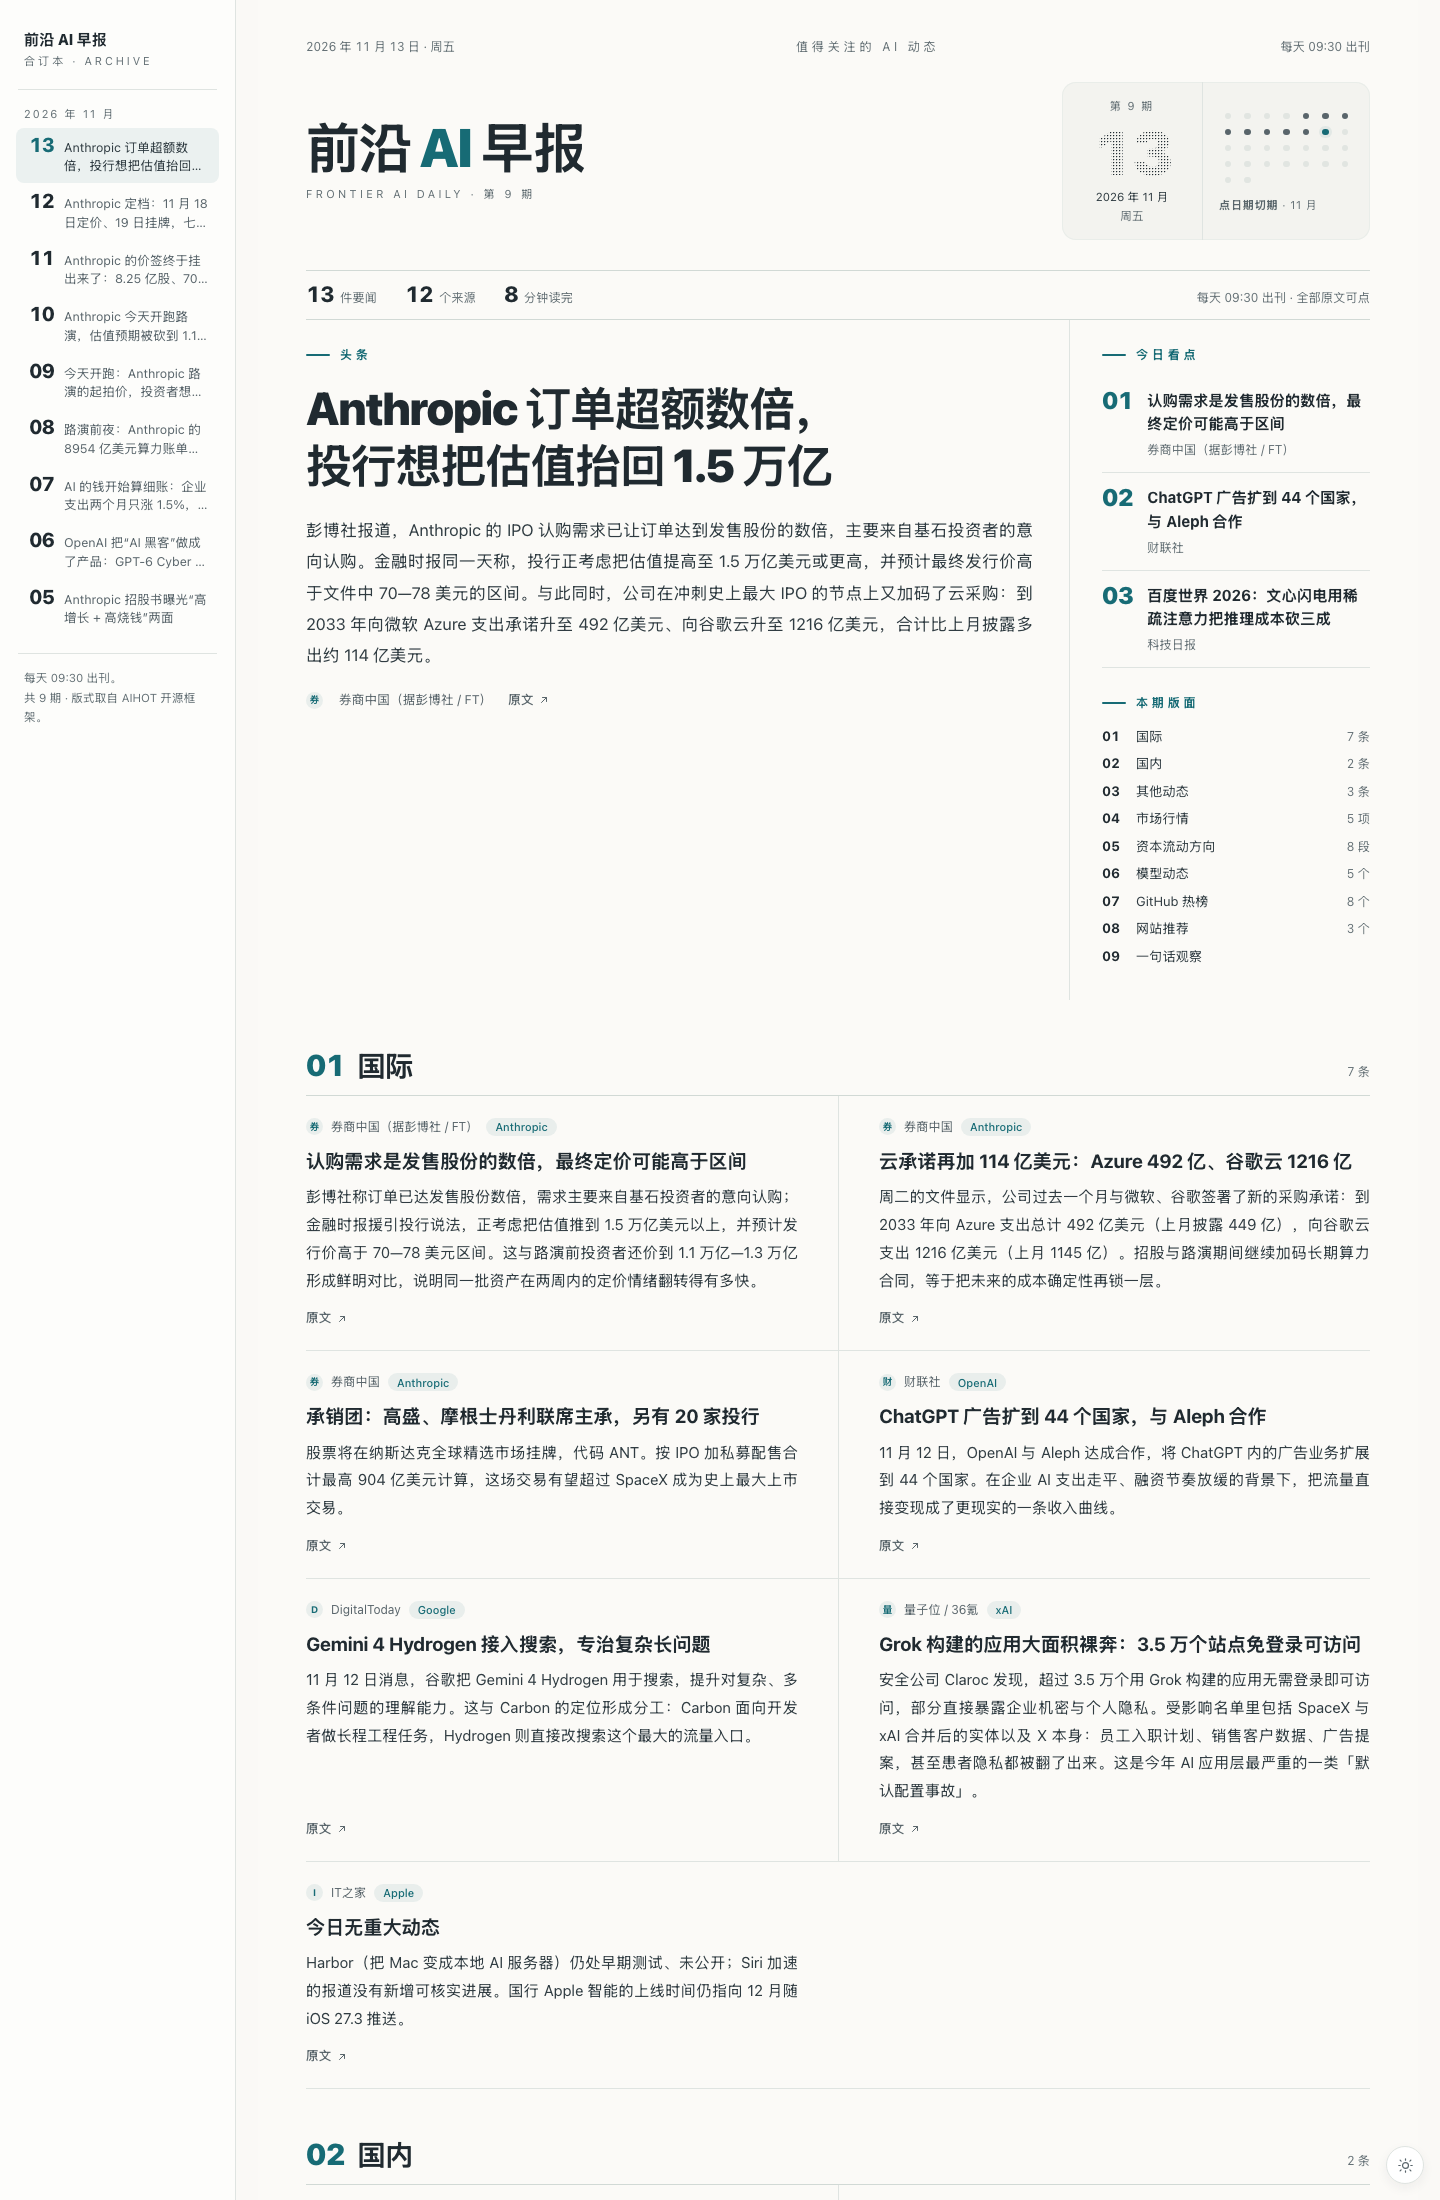
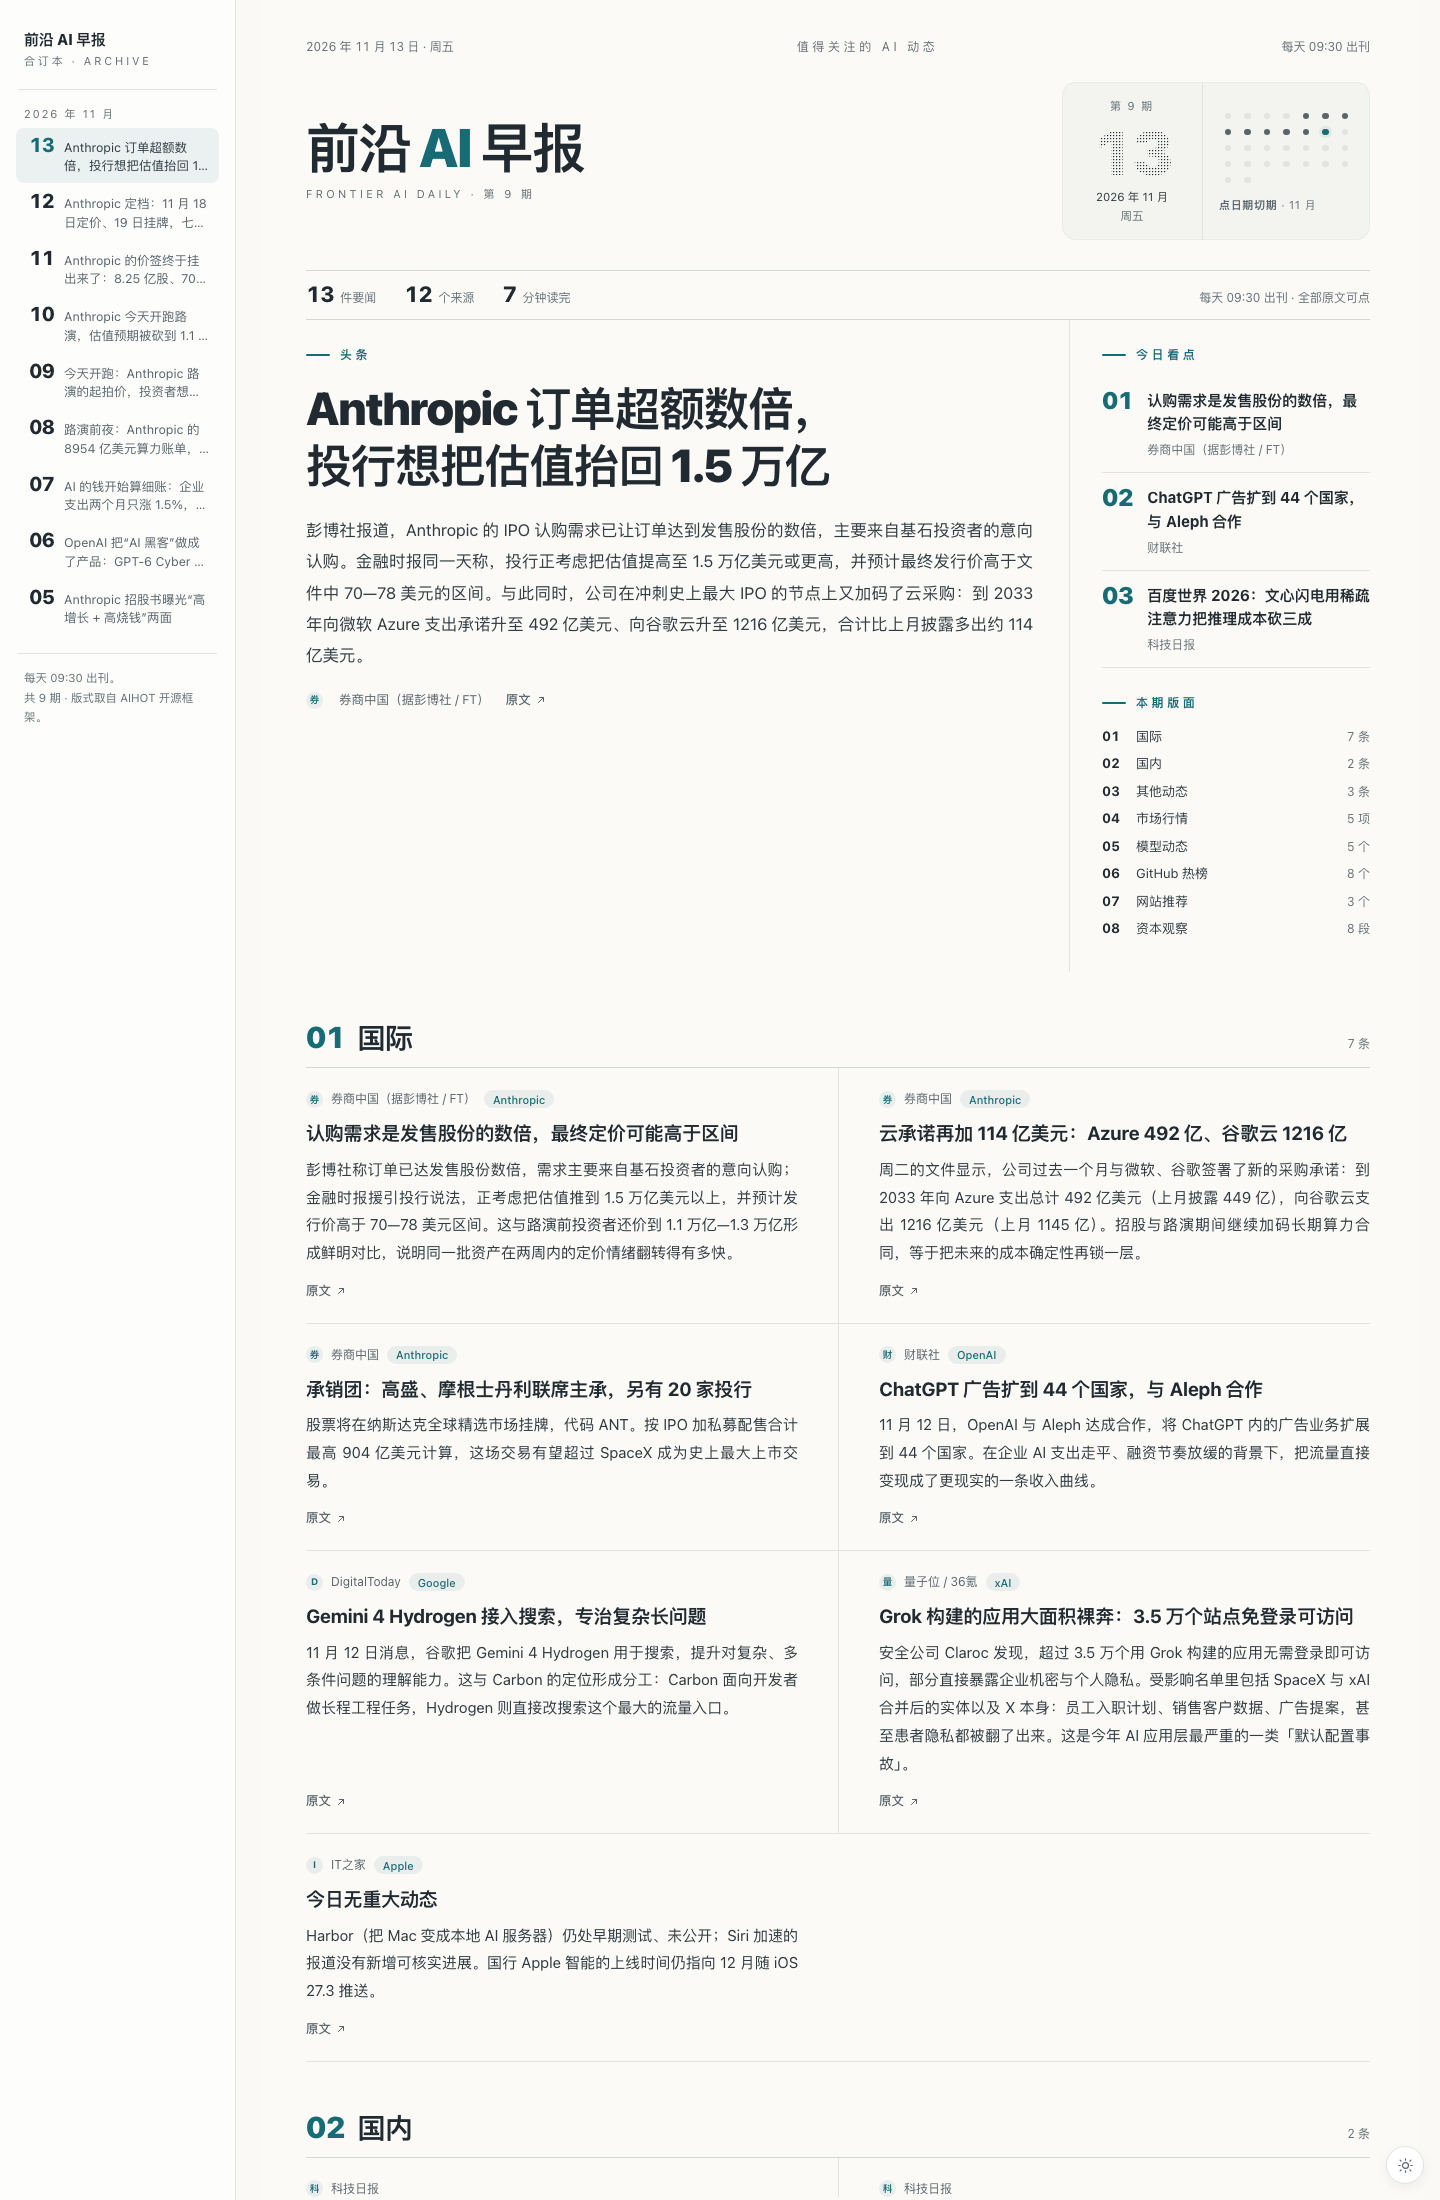
feat: 资本流动方向改为压轴「资本观察」，移除一句话观察

diff --git a/scripts/render.py b/scripts/render.py
@@ -186,7 +186,6 @@ def reading_minutes(data: dict) -> int:
     chars = sum(len(str(i.get("text") or "")) + len(str(i.get("title") or "")) for i in collect_items(data))
     cap = data.get("capital") or {}
     chars += sum(len(str(p)) for p in cap.get("paragraphs") or [])
-    chars += len(str(data.get("takeaway") or ""))
     chars += sum(len(str(r.get("text") or "")) for r in (data.get("models") or {}).get("rows") or [])
     return max(3, round(chars / 450))
 
@@ -362,29 +361,6 @@ def build_page(data: dict, issues: list[dict], site: str, motto: str, edition: s
         )
         sections.append(section(no, sid, "市场行情", f"{len(market['rows'])} 项", body))
 
-    capital = data.get("capital") or {}
-    if capital.get("paragraphs"):
-        no += 1
-        sid = f"s-{no}"
-        index_entries.append((sid, "资本流动方向", f"{len(capital['paragraphs'])} 段"))
-        ps = "".join(f"<p>{esc(p)}</p>" for p in capital["paragraphs"])
-        flows = capital.get("flows") or []
-        flows_html = ""
-        if flows:
-            lis = "".join(
-                f'<li><span class="flow-label">{esc(f.get("label"))}</span>'
-                f'<span class="flow-text">{esc(f.get("text"))}</span></li>'
-                for f in flows
-            )
-            flows_html = f'<ul class="flows">{lis}</ul>'
-        cap_title = str(capital.get("title") or "")
-        note_bits = [esc(cap_title)] if cap_title else []
-        if capital.get("as_of"):
-            note_bits.append(esc(capital["as_of"]))
-        note = '<span class="accent">本版导读</span>' + " · ".join(note_bits) if note_bits else None
-        body = f'<div class="prose" style="padding:22px 0 0">{ps}{flows_html}</div>'
-        sections.append(section(no, sid, "资本流动方向", "综述", body, note=note))
-
     models = data.get("models") or {}
     if models.get("rows"):
         no += 1
@@ -458,17 +434,29 @@ def build_page(data: dict, issues: list[dict], site: str, motto: str, edition: s
         note = esc(sites.get("as_of")) if sites.get("as_of") else None
         sections.append(section(no, sid, "网站推荐", f"{len(sites['rows'])} 个", body, note=note))
 
-    takeaway = str(data.get("takeaway") or "").strip()
-    if takeaway:
-        index_entries.append(("s-takeaway", "一句话观察", ""))
-        sections.append(
-            '<section class="page" id="s-takeaway" aria-labelledby="s-takeaway-t">'
-            '<header class="page-head"><span class="page-no">末</span>'
-            '<h2 id="s-takeaway-t">一句话观察</h2><span class="page-count">趋势判断</span></header>'
-            f'<div class="closing"><div class="kicker">观察</div>'
-            f"<blockquote>{esc(takeaway)}</blockquote>"
-            f"<cite>—— {esc(site)} · 第 {issue_no} 期</cite></div></section>"
-        )
+    # 资本观察放在最后一版（原「一句话观察」的位置）
+    capital = data.get("capital") or {}
+    if capital.get("paragraphs"):
+        no += 1
+        sid = f"s-{no}"
+        index_entries.append((sid, "资本观察", f"{len(capital['paragraphs'])} 段"))
+        ps = "".join(f"<p>{esc(p)}</p>" for p in capital["paragraphs"])
+        flows = capital.get("flows") or []
+        flows_html = ""
+        if flows:
+            lis = "".join(
+                f'<li><span class="flow-label">{esc(f.get("label"))}</span>'
+                f'<span class="flow-text">{esc(f.get("text"))}</span></li>'
+                for f in flows
+            )
+            flows_html = f'<ul class="flows">{lis}</ul>'
+        cap_title = str(capital.get("title") or "")
+        note_bits = [esc(cap_title)] if cap_title else []
+        if capital.get("as_of"):
+            note_bits.append(esc(capital["as_of"]))
+        note = '<span class="accent">本版导读</span>' + " · ".join(note_bits) if note_bits else None
+        body = f'<div class="prose" style="padding:22px 0 0">{ps}{flows_html}</div>'
+        sections.append(section(no, sid, "资本观察", "综述", body, note=note))
 
     # --- 头版
     hl_html = ""
@@ -654,7 +642,7 @@ def build_index(issues: list[dict], site: str, edition: str, css: str) -> str:
     </div>
   </div>
   <p class="archive-lead">每天一份：国际与国内大厂动态、其他要闻、BTC / ETH / SOL 与金银行情、
-  资本流向、模型版本、GitHub 热榜与网站推荐。点日期读当期，{latest}。</p>
+  资本观察、模型版本、GitHub 热榜与网站推荐。点日期读当期，{latest}。</p>
 </header>
 <div class="archive-years">
 {''.join(blocks)}

diff --git a/tests/test_render.py b/tests/test_render.py
@@ -54,6 +54,9 @@ class RenderTest(unittest.TestCase):
         self.assertIn("今日看点", report)
         self.assertIn("（本期完）", report)
         self.assertNotIn("None", report)
+        # 资本观察压轴，旧的「一句话观察」不再出现
+        self.assertGreater(report.index("资本观察"), report.index("网站推荐"))
+        self.assertNotIn("一句话观察", report)
         # 点击报眼点阵可切到前一天
         self.assertIn('href="2026-01-04.html"', report)
         self.assertIn('aria-current="page"', report)

diff --git a/scripts/check_data.py b/scripts/check_data.py
@@ -172,8 +172,8 @@ def main(argv: list[str]) -> int:
         if not str(row.get("desc") or "").strip():
             err(f"sites.rows[{i}] 缺少 desc")
 
-    if not str(data.get("takeaway") or "").strip():
-        warn("缺少 takeaway（一句话观察）")
+    if not (data.get("capital") or {}).get("paragraphs"):
+        warn("缺少 capital（资本观察，压轴版面）")
 
     print(f"检查：{path}  ·  {date or '?'} 第 {data.get('issue', '?')} 期  ·  条目 {total} 条")
     for w in warnings:

diff --git a/SKILL.md b/SKILL.md
@@ -17,7 +17,7 @@ metadata:
 ## 适用场景
 
 - 「生成今天的 AI 早报」「每日 AI 新闻汇总」「把这周的 AI 动态整理成日报」
-- 需要固定栏目：国际大厂 / 国内大厂 / 其他动态 / 行情 / 资本流向 / 模型版本 / GitHub 热榜 / 网站推荐
+- 需要固定栏目：国际大厂 / 国内大厂 / 其他动态 / 行情 / 模型版本 / GitHub 热榜 / 网站推荐 / 资本观察（压轴）
 - 需要能直接发出去、看起来像报纸的 HTML（不是 Markdown 列表）
 - 需要每天重复执行（挂到定时任务或 cron）
 
@@ -81,7 +81,7 @@ python3 "$SKILL_DIR/scripts/fetch_trending.py" --limit 8
 每个仓库写 `desc_zh`（40–70 字，说清「它是干什么的、解决什么问题」，不要直译堆术语；涉及 AI Agent 要明说），保留英文 `desc` 作副行。
 脚本失败时把 `github.rows` 置空并在 `as_of` 说明原因。
 
-### 4. 资本流动方向（≥500 字）
+### 4. 资本观察（≥500 字，放在最后一版）
 
 用已核实数字写「钱在往哪流」：一级市场融资/估值、信贷与发债、IPO 定价、电力与芯片等物理层、
 加密 ETF 与贵金属、中国侧开源模型支出份额。结尾给 2–3 个「接下来盯什么」的指标。
@@ -112,8 +112,7 @@ python3 "$SKILL_DIR/scripts/fetch_trending.py" --limit 8
   "capital": { "title": "", "as_of": "", "paragraphs": ["…"], "flows": [ { "label": "", "text": "" } ] },
   "models": { "as_of": "", "rows": [ { "region": "国际", "vendor": "OpenAI", "name": "", "date": "11-13", "text": "", "source": {} } ] },
   "github": { "as_of": "", "rows": [ { "repo": "", "url": "", "desc": "", "desc_zh": "", "lang": "", "stars": "", "today": "" } ] },
-  "sites": { "as_of": "", "rows": [ { "name": "", "url": "", "tag": "工具", "desc": "" } ] },
-  "takeaway": ""
+  "sites": { "as_of": "", "rows": [ { "name": "", "url": "", "tag": "工具", "desc": "" } ] }
 }
 ```
 
@@ -142,7 +141,7 @@ python3 "$SKILL_DIR/scripts/render.py" --data data/2026-11-14.json --out reports
 ### 9. 交付
 
 1. 用 `present` 交付 `reports/YYYY-MM-DD.html`（单文件、可离线打开）；
-2. 聊天里只给精简版：今日头条、行情表（BTC/ETH/SOL/黄金）、GitHub 前 3（中文简介）、网站推荐、一句话观察；
+2. 聊天里只给精简版：今日头条、行情表（BTC/ETH/SOL/黄金）、GitHub 前 3（中文简介）、网站推荐、资本观察的一句话结论；
 3. 不重复全文，全文在 HTML 里。
 
 ## 产物
@@ -155,8 +154,8 @@ reports/
 ```
 
 页面能力：报头三行 + 报眼（期号 / 大号日期点阵 / 当月日历，**有刊的日期可点击切期**）、
-数据带（要闻数 / 来源数 / 阅读分钟）、头版（头条 + 今日看点 + 版面索引）、各版两栏、末版观察、
-上一期/下一期、深浅色切换、打印样式。
+数据带（要闻数 / 来源数 / 阅读分钟）、头版（头条 + 今日看点 + 版面索引）、各版两栏、
+压轴的资本观察、上一期/下一期、深浅色切换、打印样式。
 
 ## 质量红线
 

diff --git a/README.md b/README.md
@@ -10,7 +10,7 @@
 ## 特性
 
 - **固定栏目**：头条、国际（Anthropic / OpenAI / Google / xAI / Apple）、国内、其他动态、
-  行情（BTC / ETH / SOL / 黄金 / 白银）、资本流动、模型动态、GitHub 热榜、网站推荐、一句话观察。
+  行情（BTC / ETH / SOL / 黄金 / 白银）、模型动态、GitHub 热榜、网站推荐、压轴的**资本观察**。
 - **报纸版式**：报头与报眼（期号 + 大号日期点阵 + 当月日历）、数据带、头版双栏、
   每版两栏、上一期 / 下一期、本期完。
 - **可点日历**：报眼里每个有刊的日期都能直接点进那一期。
@@ -87,7 +87,7 @@ python3 scripts/render.py --data data/2026-01-05.json --out reports \
 生成今日「前沿 AI 早报」。项目目录：<项目路径>/ai-daily
 读 <技能目录>/SKILL.md，按工作流采集、写 data/YYYY-MM-DD.json，
 跑 check_data.py 与 render.py，最后 present reports/YYYY-MM-DD.html；
-聊天里只给精简版（头条、行情表、GitHub 前 3、网站推荐、一句话观察）。
+聊天里只给精简版（头条、行情表、GitHub 前 3、网站推荐、资本观察结论）。
 ```
 
 ## 测试

diff --git a/references/data-schema.md b/references/data-schema.md
@@ -16,11 +16,10 @@
 | `china` | object[] | ✅ | 国内条目数组，每条 `{title, text, source}` |
 | `other` | object[] | ✅ | 其他动态，同上 |
 | `market` | object | ✅ | 行情，见下 |
-| `capital` | object | 可选 | 资本流向，见下；为空则整版隐藏 |
+| `capital` | object | 可选 | 资本观察，见下；固定渲染为最后一版，为空则整版隐藏 |
 | `models` | object | 可选 | 模型动态，见下；为空则整版隐藏 |
 | `github` | object | 可选 | GitHub 热榜，见下 |
 | `sites` | object | 可选 | 网站推荐，见下 |
-| `takeaway` | string | 可选 | 一句话观察，展示为末版大字引用 |
 
 ## 条目（story）
 
@@ -60,7 +59,7 @@
 
 ```jsonc
 {
-  "title": "一句本版标题（可省略，省略时版面名仍为「资本流动方向」）",
+  "title": "一句本版标题（可省略，版面名固定为「资本观察」）",
   "as_of": "数据来源与汇总时间",
   "paragraphs": ["第一段", "第二段", "…"],   // 合计 ≥500 字，建议 6–9 段
   "flows": [ { "label": "关键数字", "text": "一句话解释" } ]  // 3–4 条，渲染为表格行

diff --git a/references/collection-playbook.md b/references/collection-playbook.md
@@ -70,7 +70,7 @@ python3 "$SKILL_DIR/scripts/fetch_trending.py" --limit 8 [--since daily|weekly|m
 - 最近 7 天推荐过的站点不要重复（可维护 `data/sites-history.json`，或人工比对）。
 - 每条写清「它替读者省掉哪一步」，不要写「很强大、值得一试」这种空话。
 
-## 8. 资本流向
+## 8. 资本观察
 
 可写的东西：融资额与估值、领投方、发债与信贷、capex 指引、IPO 定价与认购、数据中心与电力约束、
 加密 ETF 净流入、黄金白银、国内产业资本入股与开源模型支出份额。
@@ -89,5 +89,5 @@ python3 "$SKILL_DIR/scripts/fetch_trending.py" --limit 8 [--since daily|weekly|m
 - [ ] 模型动态都带 MM-DD 与出处；传闻有标注
 - [ ] GitHub 8 条都有中文简介
 - [ ] 网站 2–3 个，均实测 200，与近 7 天不重复
-- [ ] 资本流向 ≥500 字，数字都能在本期其它位置对上
+- [ ] 资本观察 ≥500 字，数字都能在本期其它位置对上
 - [ ] `check_data.py` 无 error；`reports/latest.html` 已更新
